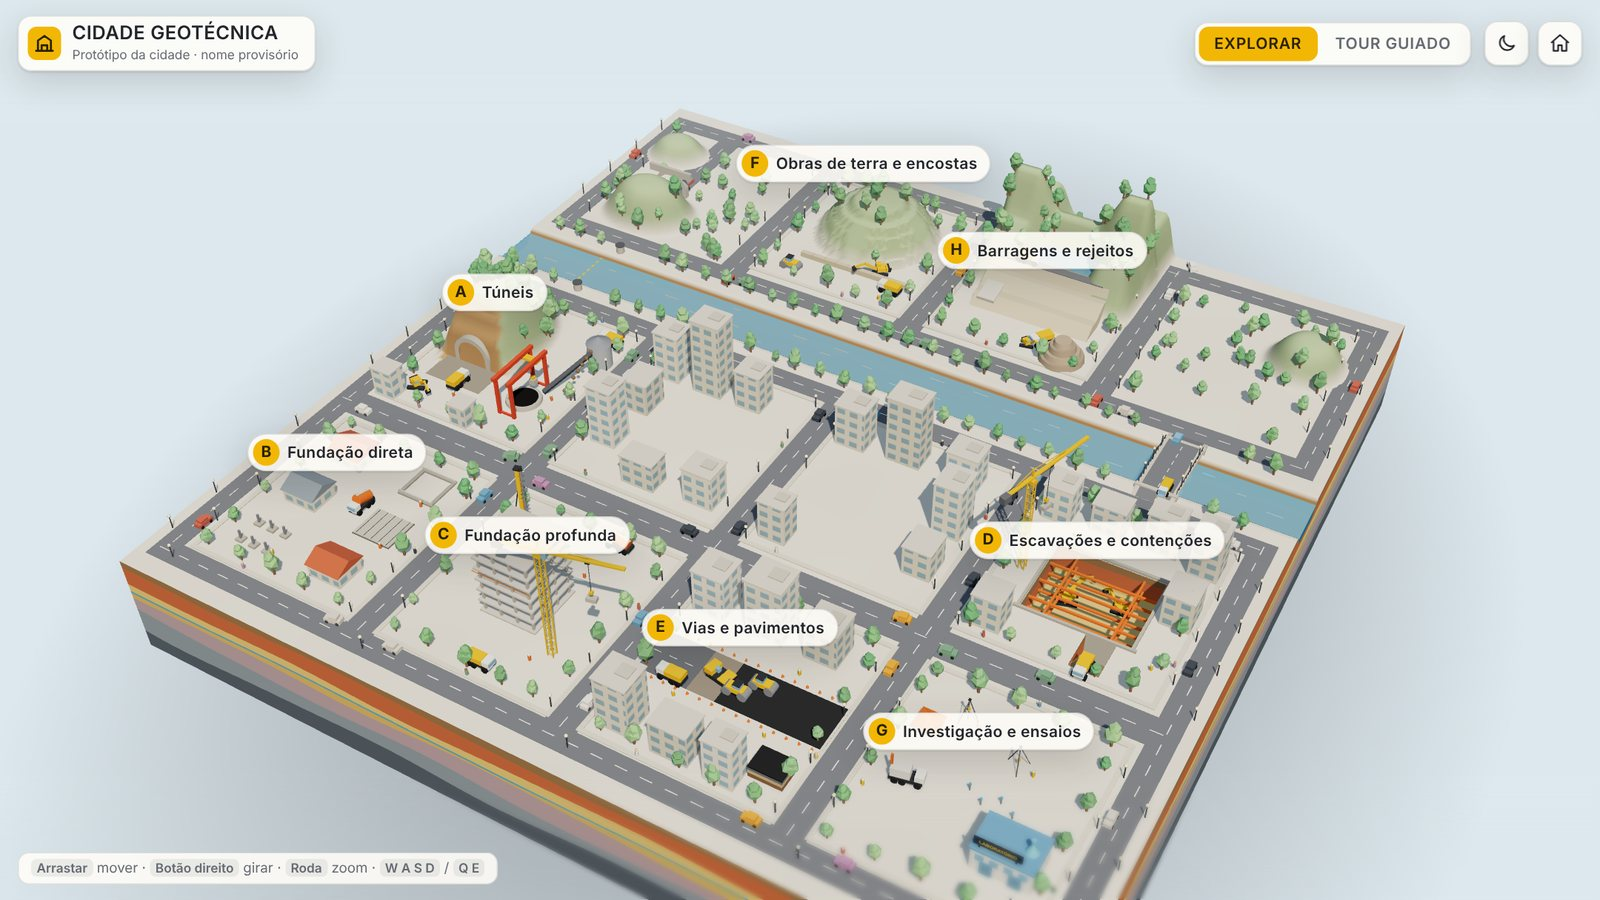
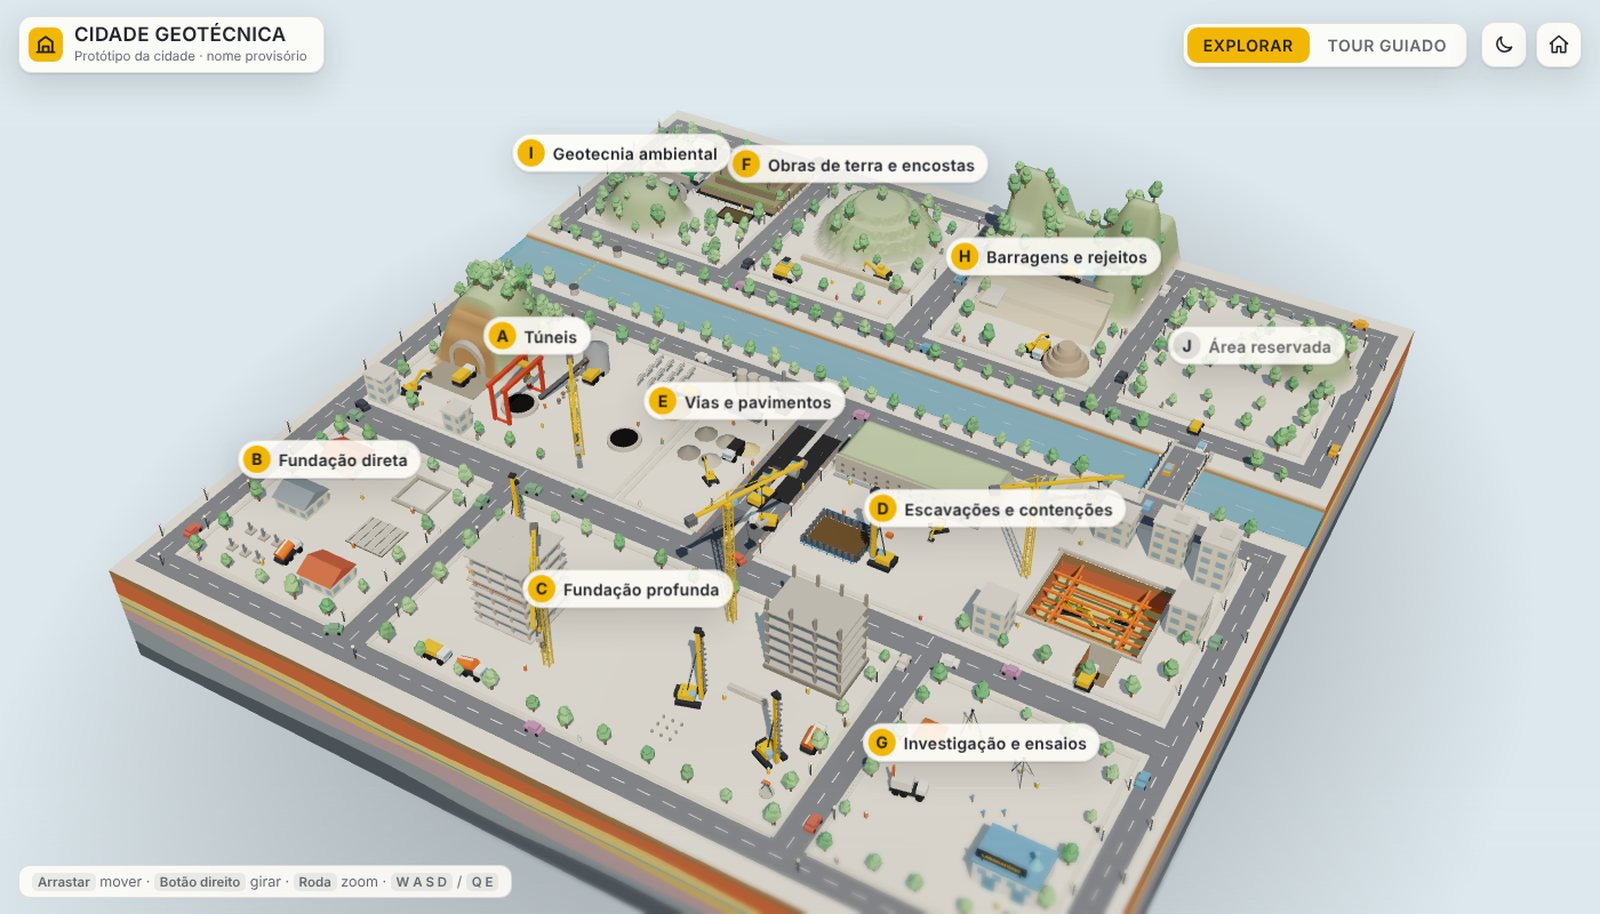
Mapa: C deitada na frente, avenida em T, A ampliada e faixa da E com usina de asfalto (roadmap v3.14)
Claude-Session: https://claude.ai/code/session_016NX9FBQ8F1nqjKQHyKoQ1e

diff --git a/src/zones/vignettes.js b/src/zones/vignettes.js
@@ -263,8 +263,12 @@ export function buildZones(ctx) {
     reserve(59, 103, 7, 57);
   }
 
-  // ===================================================== C ampliada — canteiro de fundações profundas (antigo lote de F)
+  // ===================================================== C deitada — canteiro de fundações profundas (antigo lote de E)
   {
+    // modelado no antigo lote de trás da C; o grupo desloca a cena para o antigo lote de E
+    const OX = 58, OZ = 64, cg = new THREE.Group(); cg.position.set(OX, 0, OZ); ctx.add(cg);
+    const add = (o) => cg.add(o), put = (obj, x, z, ry = 0, dy = 0) => { obj.position.set(x, H(x + OX, z + OZ) + dy, z); obj.rotation.y = ry; cg.add(obj); return obj; };
+    const worker = (x, z, x2, z2) => people.push({ x: x + OX, z: z + OZ, x2: x2 + OX, z2: z2 + OZ, kind: 'work' });
     // prédio alto em estrutura, com grua; estacas pré-moldadas sendo cravadas; hélice contínua com betoneira; tubulão
     const cr = M.towerCrane(34); put(cr.group, -44, -50); upd((d, t) => cr.update(t + 3));
     for (let f = 0; f < 6; f++) {
@@ -335,5 +339,32 @@ export function buildZones(ctx) {
     for (let x = cx - 14; x <= cx + 13; x += 2.2) for (const z of [cz - 13, -125.5]) add(box(0.1, 1.6, 0.1, 0x5a5e66, x, 0.8, z));
     for (let z = cz - 13; z <= -125.5; z += 2.2) for (const x of [cx - 14, cx + 13]) if (!(x === cx - 14 && Math.abs(z + 131) < 2.5)) add(box(0.1, 1.6, 0.1, 0x5a5e66, x, 0.8, z));
     worker(cx + 6, -124.5, cx + 1, -124.5);
+  }
+
+  // ===================================================== A ampliada — pátio de aduelas e poço de um segundo túnel
+  {
+    // anéis de aduelas empilhados (arcos de concreto), poço circular com guindaste e pilha de bota-fora
+    const segG = new THREE.TorusGeometry(2.6, 0.28, 6, 10, Math.PI / 2.4);
+    for (let r = 0; r < 3; r++) for (let c = 0; c < 4; c++) for (let h = 0; h < 2; h++) {
+      const m = new THREE.Mesh(segG, mat(0xbab6ad)); m.rotation.set(0, Math.PI / 2, Math.PI / 2 - Math.PI / 4.8); m.position.set(-48 + c * 3.2, 0.35 + h * 0.62, -52 + r * 4.2); m.castShadow = true; add(m);
+    }
+    const shaft = grp(cyl(4.2, 4.4, 0.9, CONC, 0, 0.45, 0, 24), cyl(3.4, 3.4, 0.2, 0x17181c, 0, 0.92, 0, 24)); put(shaft, -40, -24);
+    const cr = M.towerCrane(22); put(cr.group, -46, -14); upd((d, t) => cr.update(t + 5));
+    put(cone(4.5, 2.6, 0x8a6f52, 0, 0, 0, 10), -36, -40, 0, 1.3);
+    const ld = M.dumpTruck(); add(ld); upd(follower(ld, [[-33, -12], [-33, -46], [-36, -46], [-36, -12]], 4));
+    worker(-44, -30, -38, -30); worker(-46, -46, -44, -40);
+  }
+
+  // ===================================================== E — usina de asfalto e pátio de agregados (faixa ao lado da avenida)
+  {
+    // tambor secador, silos de massa quente, filtro e chaminé; pilhas de brita e areia; pá carregadeira
+    const drum = cyl(1.3, 1.3, 9, 0x7d8087, 0, 0, 0, 16); drum.rotation.z = Math.PI / 2 - 0.08; drum.position.set(-19, 2.2, -46); add(drum);
+    for (const x of [-25, -13]) add(box(0.4, 2.0, 0.4, 0x5a5e66, x, 1.0, -46));
+    for (let i = 0; i < 3; i++) { add(cyl(1.4, 1.4, 6, 0xc9c4b8, -24 + i * 3.2, 4.8, -53, 14)); add(cone(1.45, 1.2, 0xa9a49a, -24 + i * 3.2, 1.2, -53, 14)); add(box(0.3, 2.4, 0.3, 0x5a5e66, -24 + i * 3.2, 1.2, -53)); }
+    add(box(3.2, 3.6, 3.2, 0x6f757d, -12, 1.8, -53)); add(cyl(0.5, 0.6, 9, 0x8a8f96, -12, 8, -53, 10));
+    [[0x8f8b84, -24, -36], [0xa6a197, -18, -36], [0xd8c48e, -12, -36], [0x8f8b84, -24, -28], [0xbab4a8, -18, -28]].forEach(([c, x, z]) => put(cone(3.0, 2.2, c, 0, 0, 0, 10), x, z, 0, 1.1));
+    const ld = M.excavator(0.7); put(ld.group, -14, -22, 2.6); upd((d, t) => ld.update(t + 1.9));
+    const tk = M.dumpTruck(0x34363b); add(tk); upd(follower(tk, [[-10.5, -14], [-10.5, -50], [-14, -50], [-14, -14]], 3.6));
+    worker(-20, -42, -16, -42);
   }
 }

diff --git a/src/config.js b/src/config.js
@@ -16,24 +16,26 @@ export const xfRect = (xf, x0, x1, z0, z1) => { const P = [xfPt(xf, x0, z0), xfP
 // lotes (quadras) como retângulos: os vizinhos da avenida central ficam mais estreitos
 const lot = (cx, cz) => ({ x0: cx - 23 + (cx === 27 ? AVENUE_W / 2 - 4 : 0), x1: cx + 23 - (cx === -27 ? AVENUE_W / 2 - 4 : 0), z0: cz - 26, z1: cz + 26 });
 const L = (cx, cz) => lot(cx, cz), U = (a, b) => ({ x0: Math.min(a.x0, b.x0), x1: Math.max(a.x1, b.x1), z0: Math.min(a.z0, b.z0), z1: Math.max(a.z1, b.z1) });
-// C e D ampliadas viram uma quadra só cada: os lotes se juntam e a rua entre eles sai (ROAD_GAPS)
-const merged = [[[-27, -32], [-27, 32]], [[27, -32], [81, -32]]];
-const isMerged = (x, z) => merged.some((m) => m.some(([a, b]) => a === x && b === z));
+// Quadras juntadas: C deitada na frente (antigo lote de C + antigo lote de E), D dupla no fundo; A cresce para a direita
+// até x = -31 e o resto do antigo lote de trás da C vira uma faixa da Zona E, colada à avenida.
+const taken = [[-81, -32], [-27, -32], [-27, 32], [27, 32], [27, -32], [81, -32]];
+const A_LOT = { x0: -104, x1: -31, z0: -58, z1: -6 }, E_LOT = { x0: -29, x1: -AVENUE_W / 2, z0: -58, z1: -6 };
 export const LOTS = [
-  ...[-81, -27, 27, 81].flatMap((x) => [-32, 32, -126].map((z) => [x, z])).filter(([x, z]) => !isMerged(x, z)).map(([x, z]) => lot(x, z)),
-  ...merged.map(([a, b]) => U(lot(...a), lot(...b))),
+  ...[-81, -27, 27, 81].flatMap((x) => [-32, 32, -126].map((z) => [x, z])).filter(([x, z]) => !taken.some(([a, b]) => a === x && b === z)).map(([x, z]) => lot(x, z)),
+  U(lot(-27, 32), lot(27, 32)), U(lot(27, -32), lot(81, -32)), A_LOT, E_LOT,
 ];
 // trechos de rua removidos: { eixo da rua, posição, intervalo }
 export const ROAD_GAPS = [
-  { along: 'x', at: 0, from: -50, to: -AVENUE_W / 2 },   // rua transversal entre as duas metades da C
-  { along: 'z', at: 54, from: -59, to: -4 },             // rua entre as duas metades da D
+  { along: 'z', at: 0, from: 4, to: 59 },        // metade da frente da avenida central: termina em T na rua do meio
+  { along: 'z', at: -54, from: -59, to: -4 },    // rua entre a A e a sua parte nova
+  { along: 'z', at: 54, from: -59, to: -4 },     // rua entre as duas metades da D
 ];
 // laços de trânsito das quadras juntadas (substituem os laços das quadras originais)
-export const LOOP_MERGE = [{ x0: -54, x1: 0, z0: -62, z1: 62 }, { x0: 0, x1: 109, z0: -62, z1: 0 }];
-// área de cada zona (para destaque, clique e câmera); C e D ocupam dois lotes; E é o trecho da avenida entre C e D
+export const LOOP_MERGE = [{ x0: -109, x1: 0, z0: -62, z1: 0 }, { x0: -54, x1: 54, z0: 0, z1: 62 }, { x0: 0, x1: 109, z0: -62, z1: 0 }];
+// área de cada zona (para destaque, clique e câmera); C e D ocupam dois lotes; E é o trecho de trás da avenida mais a faixa ao lado
 export const ZONE_RECT = {
-  A: L(-81, -32), B: L(-81, 32), C: U(L(-27, -32), L(-27, 32)), D: U(L(27, -32), L(81, -32)),
-  E: { x0: -AVENUE_W / 2, x1: AVENUE_W / 2, z0: -58, z1: -6 }, G: L(81, 32),
+  A: A_LOT, B: L(-81, 32), C: U(L(-27, 32), L(27, 32)), D: U(L(27, -32), L(81, -32)),
+  E: { x0: E_LOT.x0, x1: AVENUE_W / 2, z0: -58, z1: -6 }, G: L(81, 32),
   F: L(-27, -126), H: L(27, -126), I: L(-81, -126), J: L(81, -126),
 };
 export const PLOT = { w: 46, d: 52 };

diff --git a/src/scene/roads.js b/src/scene/roads.js
@@ -30,8 +30,8 @@ export function createRoads(engine) {
       for (const [p, q] of pieces('z', x, zMin, zMax, R)) asphalt.push(boxGeo(w, 0.12, q - p, x, 0.06, (p + q) / 2));
       if (w >= 12) {
         // avenida: canteiro central e duas faixas tracejadas por sentido
-        for (let z = zMin + 3; z < zMax - 2; z += 6) if (!zs.some((zz) => Math.abs(z - zz) < 6)) for (const dx of [-w / 4, w / 4]) marks.push(boxGeo(0.25, 0.02, 3, x + dx, 0.13, z));
-        for (const [a, b] of [[zMin, zs[0] - 6], [zs[0] + 6, zs[1] - 6], [zs[1] + 6, zs[2] - 6], [zs[2] + 6, zMax]]) if (b > a) curbs.push(boxGeo(1.6, 0.3, b - a, x, 0.15, (a + b) / 2));
+        for (let z = zMin + 3; z < zMax - 2; z += 6) if (!zs.some((zz) => Math.abs(z - zz) < 6) && !inGap('z', x, z, R)) for (const dx of [-w / 4, w / 4]) marks.push(boxGeo(0.25, 0.02, 3, x + dx, 0.13, z));
+        for (const [a, b] of [[zMin, zs[0] - 6], [zs[0] + 6, zs[1] - 6], [zs[1] + 6, zs[2] - 6], [zs[2] + 6, zMax]]) if (b > a && !inGap('z', x, (a + b) / 2, R)) curbs.push(boxGeo(1.6, 0.3, b - a, x, 0.15, (a + b) / 2));
       } else for (let z = zMin + 3; z < zMax - 2; z += 6) if (!inGap('z', x, z, R)) marks.push(boxGeo(0.25, 0.02, 3, x, 0.13, z));
       const off = (w / 2) + 0.6;
       for (let z = zMin + 9; z <= zMax - 9; z += 14) if (!zs.some((zz) => Math.abs(z - zz) < 5) && !inGap('z', x, z, R)) { lampPts.push([x - off, z]); lampPts.push([x + off, z + 7]); }

diff --git a/src/zones/city.js b/src/zones/city.js
@@ -24,9 +24,6 @@ export function buildCity(engine, dn) {
     // D (vizinhos da escavação)
     [100, -50, 7, 7, 13], [100, -33, 7, 8, 9],
     // E
-    // antigo lote de E (a zona foi para a avenida central): quarteirão de prédios
-    [13, 14, 8, 8, 12], [26, 14, 9, 8, 16], [39, 14, 8, 8, 10], [13, 51, 8, 8, 14], [26, 52, 9, 7, 9], [38, 53, 7, 6, 12],
-    [13, 29, 7, 8, 18], [13, 40, 7, 7, 9], [45, 30, 7, 9, 21], [45, 42, 7, 7, 11],
   ];
   for (const [x, z, w, d, h] of B) bld.add(x, H(x, z), z, w, h, d);
   root.add(bld.finish());
@@ -53,8 +50,6 @@ export function buildCity(engine, dn) {
   hill(-103, -77, -57, -24, 40, 1.5, (x, z) => !(Math.abs(x + 90) < 14 && z > -34.5));
   hill(-48, -7, -57 + REMOTE_DZ, -22 + REMOTE_DZ, 10, 1.2);
   hill(6, 48, -57 + REMOTE_DZ, -30 + REMOTE_DZ, 36, 8);
-  // pracinha no meio do antigo lote de E
-  for (let x = 0; x < 3; x++) for (let z = 0; z < 2; z++) pushT(23 + x * 6 + R() * 1.5, 31 + z * 7 + R() * 1.5);
   // mata nos cantos da área afastada e nas margens do rio
   const flat = () => true;
   // canto esquerdo: saída do túnel e aterro sanitário (Zona I) — mata só fora do aterro

diff --git a/docs/ROADMAP.md b/docs/ROADMAP.md
@@ -1,6 +1,6 @@
 # 🏗 Cidade Geotécnica 3D — Roadmap e Planejamento
 
-> Nome provisório. Versão 3.13 · 06/11/2026
+> Nome provisório. Versão 3.14 · 06/11/2026
 > Status: **Fase 1b em andamento**, com 52 obras animadas em corte: Zona A (A1, A2, A5), B (B1 a B6), C (C1, C2, C3, C4, C6, C7, C13, C14), D (D1 a D8, D10, D11, D14), E (E1, E2, E4, E5, E6), F (F1 a F5), **G (G1 a G12)** e H (H1, H4). Falta você confirmar as sequências e os valores de exemplo.
 > Publicação: site em https://victortlacerda.github.io/cidade-geotecnica/, atualizado sozinho a cada envio para a `main` (GitHub Actions).
 
@@ -61,7 +61,7 @@ As oito zonas: **A Túneis · B Fundação direta · C Fundação profunda · D 
 - Cada **zona** tem também um **repositório geral** (ex.: referências de "fundação profunda" valem para todas as estacas).
 - **Casa x prédio deixou de ser zona e virou contexto.** Como as zonas agora são por tipo de fundação, a mesma obra pode aparecer com uma casa ou com um prédio em cima. A coluna **Contexto** mostra isso (DEC16).
 
-**Mapa da cidade (v3.13).** Do lado de cá do rio: A e B à esquerda; **C ampliada** (dois lotes, de frente para trás, sem a rua transversal entre eles), com um canteiro de fundações profundas na metade de trás (prédio em estrutura com grua, cravação de estacas pré-moldadas, hélice contínua com betoneira, boca de tubulão); **Zona E na avenida central**, alargada para 16 m (duas faixas por sentido e canteiro central), onde as obras E1, E2, E4, E5 e E6 agora acontecem, entre C e D (o corte passou a ser um plano transversal à avenida); **D ampliada** (dois lotes, sem a rua entre eles), com um platô de 5 m contido por cortina atirantada e uma ensecadeira de estacas-prancha com ponteiras filtrantes na metade nova; G na frente à direita; o antigo lote de E virou quarteirão de prédios. Do outro lado do rio: F e H, **Zona I (Geotecnia ambiental)** no canto esquerdo, com o aterro sanitário ao lado da saída do túnel (os caminhões de lixo chegam pelo túnel), e **Zona J (área reservada)** no canto direito, na chegada da ponte.
+**Mapa da cidade (v3.14).** Do lado de cá do rio: na fileira de trás, **A ampliada** (cresceu para a direita, sem a rua entre as partes, com pátio de aduelas, um segundo poço e grua), **Zona E** (trecho de trás da avenida central, de 16 m, onde ficam as obras E1, E2, E4, E5 e E6, mais uma faixa ao lado com usina de asfalto e pátio de agregados) e **D ampliada** (dois lotes, platô com cortina atirantada e ensecadeira de estacas-prancha); na fileira da frente, B, **C deitada** (dois lotes contínuos, do lote original da C ao antigo lote de E, com um canteiro de fundações profundas: prédio em estrutura com grua, cravação de estacas, hélice contínua e tubulão) e G. A avenida central termina em T na rua do meio, para a C não ser cortada. Do outro lado do rio: F e H, **Zona I (Geotecnia ambiental)** no canto esquerdo, com o aterro sanitário ao lado da saída do túnel (os caminhões de lixo chegam pelo túnel), e **Zona J (área reservada)** no canto direito, na chegada da ponte.
 - Zona I, obras sugeridas (confirme): I1 Aterro sanitário (P1), I2 Remediação de área contaminada, I3 Poços de monitoramento da água subterrânea (P2), I4 Cobertura final e encerramento de aterro, I5 Tratamento de chorume (P3).
 - Pendente: o que entra na Zona J.
 
@@ -916,3 +916,4 @@ Vi só as imagens do vídeo, sem áudio. Parece um site WebGL; não consigo conf
 | 06/11/2026 | v3.11: **G12 (inclinômetro) animado em corte**, ao pé de um aterro em três etapas sobre a argila, com tubo-guia, calda, torpedo, leituras e gráfico deslocamento x profundidade. Site publicado no GitHub Pages e README com prints | Aguardando suas correções; próxima: G13 (laboratório) ou as P3 da Zona H (H2, H3, H5, H6) |
 | 06/11/2026 | v3.12: **novo mapa**: rio atrás da cidade, **área afastada** do outro lado com as zonas F e H (todas as obras F1 a F5, H1 e H4 deslocadas e testadas em corte), **túnel** saindo da Zona A por baixo do rio até um portal na área afastada, e **ponte** perto da Zona D; antigos lotes de F e H viram quarteirão e praça | Aguardando sua avaliação do mapa; próxima: C17 na ponte, G13 ou as P3 da Zona H |
 | 06/11/2026 | v3.13: **C e D ampliadas** (quadras contínuas, ruas entre as metades removidas), **Zona E na avenida central** alargada (obras giradas para correr ao longo dela), antigo lote de E virou quarteirão, **Zona I (Geotecnia ambiental)** com aterro sanitário ao lado da saída do túnel e **Zona J (reservada)** na chegada da ponte | Aguardando: confirmar obras da Zona I e o que entra na J; próxima: I1 em corte ou C17 |
+| 06/11/2026 | v3.14: **C deitada** na fileira da frente (antigo lote de E), avenida central termina em T na rua do meio; **A ampliada** para a direita e **faixa da Zona E** com usina de asfalto no antigo lote de trás da C | Aguardando sua avaliação do mapa; próxima: I1 em corte ou C17 |

diff --git a/README.md b/README.md
@@ -22,7 +22,7 @@ A cidade tem oito zonas temáticas. Clique numa zona para ver o catálogo de obr
 
 ## Zonas e obras
 
-Um rio corre atrás da cidade. Do outro lado fica uma área afastada com as zonas F, H e I (geotecnia ambiental, com aterro sanitário), ligada à cidade por um túnel que sai da Zona A e passa por baixo do rio, e por uma ponte perto da Zona D. A Zona E fica na avenida central da cidade, entre as zonas C e D, que ocupam quadras duplas.
+Um rio corre atrás da cidade. Do outro lado fica uma área afastada com as zonas F, H e I (geotecnia ambiental, com aterro sanitário), ligada à cidade por um túnel que sai da Zona A e passa por baixo do rio, e por uma ponte perto da Zona D. A Zona E fica na avenida central, entre as zonas A e D; a Zona C ocupa toda a frente do meio da cidade.
 
 | Zona | Tema | Obras animadas em corte |
 |------|------|-------------------------|
